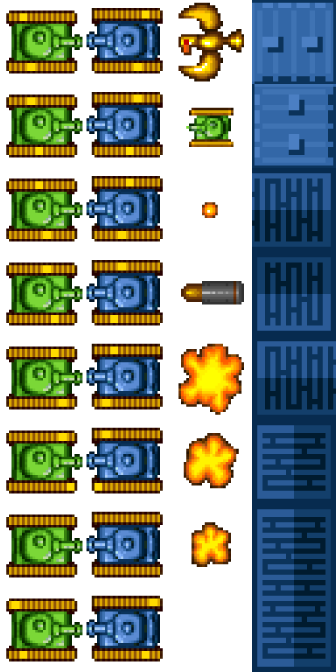
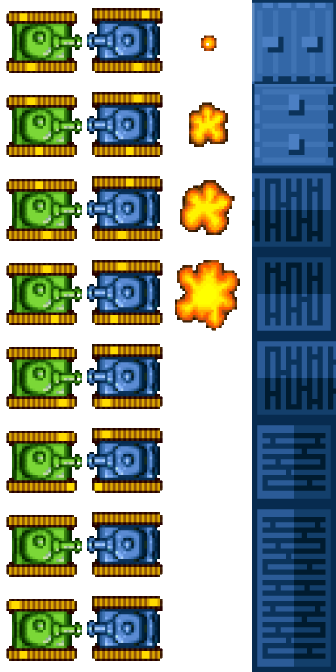
Add tanks, background, sound (First version presented)

diff --git a/.generated/com/heatledger/game/shooter/client/Main.ts b/.generated/com/heatledger/game/shooter/client/Main.ts
@@ -8,6 +8,12 @@ namespace com.heatledger.game.shooter.client {
 
     import ServerConnection = com.heatledger.game.shooter.client.server.connection.ServerConnection;
 
+    import Animation = com.heatledger.game.shooter.client.tools.Animation;
+
+    import Audio = com.heatledger.game.shooter.client.tools.Audio;
+
+    import SingleAnimation = com.heatledger.game.shooter.client.tools.SingleAnimation;
+
     import DrawCanvas = com.heatledger.game.shooter.client.view.DrawCanvas;
 
     import ElementsToDraw = com.heatledger.game.shooter.client.view.ElementsToDraw;
@@ -23,6 +29,12 @@ namespace com.heatledger.game.shooter.client {
 
         redTanks : Tanks = new Tanks(this.elementsToDraw, TankView.Type.red);
 
+        animation : Animation = new Animation("sprite-breakable-block", 10, 168, 84, 4);
+
+        audio : Audio = new Audio("audio_gun_shot");
+
+        singleAnimation : SingleAnimation = new SingleAnimation(this.animation, this.audio);
+
         drawCanvas : DrawCanvas;
 
         public static main(args : string[]) {
@@ -33,6 +45,11 @@ namespace com.heatledger.game.shooter.client {
             };
         }
 
+        public onMouseUp(event : MouseEvent) {
+            event.preventDefault();
+            this.singleAnimation.play(event.clientX - 40, event.clientY - 40);
+        }
+
         public run() {
             this.serverConnection = new ServerConnection();
             this.serverConnection.connect();
@@ -41,6 +58,11 @@ namespace com.heatledger.game.shooter.client {
                 this.drawCanvas = new DrawCanvas(canvas);
                 this.serverConnection.send("get-sell-offers");
                 this.onFrame();
+                canvas.addEventListener("mouseup", (mouseEvent) => {
+                    console.info("Mouse up");
+                    this.onMouseUp(mouseEvent);
+                    return null;
+                }, true);
                 return null;
             });
             this.serverConnection.addMessageListener((message) => {
@@ -59,8 +81,8 @@ namespace com.heatledger.game.shooter.client {
         private refreshOffers(jsonMsg : string, tanks : Tanks) {
             let arr : Array<any> = <Array<any>>JSON.parse(jsonMsg);
             let offers : List<Offer> = <any>(new ArrayList<Offer>((<number>arr.length|0)));
-            for(let index752=0; index752 < arr.length; index752++) {
-                let obj = arr[index752];
+            for(let index155=0; index155 < arr.length; index155++) {
+                let obj = arr[index155];
                 {
                     offers.add(this.revive(obj));
                 }
@@ -75,6 +97,7 @@ namespace com.heatledger.game.shooter.client {
         private animateFrame() {
             this.drawCanvas.getCtx().clearRect(0, 0, this.drawCanvas.getWidth(), this.drawCanvas.getHeight());
             this.elementsToDraw.draw(this.drawCanvas);
+            this.singleAnimation.onFrame(this.drawCanvas);
         }
 
         private onFrame() {

diff --git a/main.html b/main.html
@@ -4,27 +4,6 @@
 <head>
 	<meta charset="utf-8">
 	<meta name="viewport" content="width=device-width, initial-scale=1">
-
-	<script src="j4ts-0.1.0/bundle.js"></script>
-	<script src="j4ts-0.1.0/jquery-3.2.1.min.js"></script>
-	
-	<script src="js/com/heatledger/game/shooter/client/tools/Animation.js"></script>
-
-	<script src="js/com/heatledger/game/shooter/client/server/connection/ServerConnection.js"></script>
-
-	<script src="js/com/heatledger/game/shooter/client/view/DrawCanvas.js"></script>
-	<script src="js/com/heatledger/game/shooter/client/view/ElementView.js"></script>
-	<script src="js/com/heatledger/game/shooter/client/view/ElementsToDraw.js"></script>
-	
-	<script src="js/com/heatledger/game/shooter/client/view/TankView.js"></script>
-	<script src="js/com/heatledger/game/shooter/client/objects/Tanks.js"></script>
-	
-	
-	
-	<script src="js/com/heatledger/game/shooter/client/GameData.js"></script>
-	
-	<script src="js/com/heatledger/game/shooter/client/Offer.js"></script>
- 	<script src="js/com/heatledger/game/shooter/client/Main.js"></script>
  	
  	<!-- 
  	<script src="js/org/dziemian/ln/data/PaymentChannel.js"></script>
@@ -43,11 +22,20 @@
 	
 </head>
 
+<style>
+#canvas { background:url(res/img/background.jpg) }
+</style>
+
 
 <body>
 
-	<img id="sprite-breakable-block" src="res/img/tanks.png"
-		style="display: none;" />
+	<img id="sprite-breakable-block" src="res/img/tanks.png" style="display: none;" />
+	<!-- 
+	<img id="img_background" src="res/img/background.jpg" style="display: none;" />
+		 -->
+		 
+	<audio id="audio_gun_battle" src="res/audio/gun_battle.wav" autoplay loop volume="0.2"></audio>
+	<audio id="audio_gun_shot" src="res/audio/gun_shot.wav"></audio>
 
 
     <div id="content">
@@ -56,7 +44,27 @@
 		</canvas>
 	</div>
 
+	<script src="j4ts-0.1.0/bundle.js"></script>
+	<script src="j4ts-0.1.0/jquery-3.2.1.min.js"></script>
+	
+	<script src="js/com/heatledger/game/shooter/client/tools/Animation.js"></script>
+	<script src="js/com/heatledger/game/shooter/client/tools/Audio.js"></script>
 
+	<script src="js/com/heatledger/game/shooter/client/server/connection/ServerConnection.js"></script>
+
+	<script src="js/com/heatledger/game/shooter/client/view/DrawCanvas.js"></script>
+	<script src="js/com/heatledger/game/shooter/client/view/ElementView.js"></script>
+	<script src="js/com/heatledger/game/shooter/client/view/ElementsToDraw.js"></script>
+	
+	<script src="js/com/heatledger/game/shooter/client/tools/SingleAnimation.js"></script>
+	
+	<script src="js/com/heatledger/game/shooter/client/view/TankView.js"></script>
+	<script src="js/com/heatledger/game/shooter/client/objects/Tanks.js"></script>
+	
+	<script src="js/com/heatledger/game/shooter/client/GameData.js"></script>
+	
+	<script src="js/com/heatledger/game/shooter/client/Offer.js"></script>
+ 	<script src="js/com/heatledger/game/shooter/client/Main.js"></script>
 
 </body>
 </html>

diff --git a/.generated/com/heatledger/game/shooter/client/view/TankView.ts b/.generated/com/heatledger/game/shooter/client/view/TankView.ts
@@ -1,7 +1,5 @@
 /* Generated from Java with JSweet 1.2.0 - http://www.jsweet.org */
 namespace com.heatledger.game.shooter.client.view {
-    import Tanks = com.heatledger.game.shooter.client.objects.Tanks;
-
     import Animation = com.heatledger.game.shooter.client.tools.Animation;
 
     export class TankView implements ElementView {
@@ -17,7 +15,7 @@ namespace com.heatledger.game.shooter.client.view {
 
         private selected : boolean = false;
 
-        animation : Animation = new Animation("sprite-breakable-block", 10, 85, 84);
+        animation : Animation = new Animation("sprite-breakable-block", 10, 85, 84, 5);
 
         public setCooridnates(x : number, y : number) {
             this.x = x;
@@ -32,9 +30,9 @@ namespace com.heatledger.game.shooter.client.view {
             this.x = x;
             this.y = y;
             if(type === TankView.Type.green) {
-                this.animation = new Animation("sprite-breakable-block", 10, 0, 84);
+                this.animation = new Animation("sprite-breakable-block", 10, 0, 84, 5);
             } else if(type === TankView.Type.red) {
-                this.animation = new Animation("sprite-breakable-block", 10, 85, 84);
+                this.animation = new Animation("sprite-breakable-block", 10, 85, 84, 5);
             } else {
                 throw new Error("Unknown tank type: " + type);
             }

diff --git a/.generated/com/heatledger/game/shooter/client/view/ElementsToDraw.ts b/.generated/com/heatledger/game/shooter/client/view/ElementsToDraw.ts
@@ -14,11 +14,11 @@ namespace com.heatledger.game.shooter.client.view {
         }
 
         public draw(drawCanvas : DrawCanvas) {
-            for(let index756=this.elemntGroups.values().iterator();index756.hasNext();) {
-                let elements = index756.next();
+            for(let index159=this.elemntGroups.values().iterator();index159.hasNext();) {
+                let elements = index159.next();
                 {
-                    for(let index757=elements.iterator();index757.hasNext();) {
-                        let el = index757.next();
+                    for(let index160=elements.iterator();index160.hasNext();) {
+                        let el = index160.next();
                         {
                             el.draw(drawCanvas);
                         }

diff --git a/.generated/com/heatledger/game/shooter/client/server/connection/ServerConnection.ts b/.generated/com/heatledger/game/shooter/client/server/connection/ServerConnection.ts
@@ -11,7 +11,7 @@ namespace com.heatledger.game.shooter.client.server.connection {
 
         public connect() {
             console.info("Socket connecting... to remote ");
-            this.socket = new WebSocket("ws://192.168.0.20/shooter/websocketendpoint");
+            this.socket = new WebSocket("ws://89.65.185.54/shooter/websocketendpoint");
         }
 
         public onConnected(listener : (p1: Event) => any) {

diff --git a/src/main/java/com/heatledger/game/shooter/client/Main.java b/src/main/java/com/heatledger/game/shooter/client/Main.java
@@ -1,20 +1,26 @@
 package com.heatledger.game.shooter.client;
 
 import static jsweet.dom.Globals.alert;
+import static jsweet.dom.Globals.console;
 import static jsweet.dom.Globals.document;
 import static jsweet.dom.Globals.window;
+import static jsweet.util.StringTypes.mouseup;
 
 import java.util.ArrayList;
 import java.util.List;
 
 import com.heatledger.game.shooter.client.objects.Tanks;
 import com.heatledger.game.shooter.client.server.connection.ServerConnection;
+import com.heatledger.game.shooter.client.tools.Animation;
+import com.heatledger.game.shooter.client.tools.Audio;
+import com.heatledger.game.shooter.client.tools.SingleAnimation;
 import com.heatledger.game.shooter.client.view.DrawCanvas;
 import com.heatledger.game.shooter.client.view.ElementsToDraw;
 import com.heatledger.game.shooter.client.view.TankView;
 
 import jsweet.dom.HTMLCanvasElement;
 import jsweet.dom.Image;
+import jsweet.dom.MouseEvent;
 import jsweet.lang.Array;
 import jsweet.lang.JSON;
 
@@ -29,6 +35,12 @@ public class Main {
 	Tanks greenTanks = new Tanks(elementsToDraw, TankView.Type.green); // tanks represents bids
 	Tanks redTanks = new Tanks(elementsToDraw, TankView.Type.red); // tanks represents asks
 	
+	Animation animation = new Animation("sprite-breakable-block", 10, 168, 84, 4);
+	Audio audio = new Audio("audio_gun_shot");
+	SingleAnimation singleAnimation = new SingleAnimation(animation, audio);
+	
+//	Audio backgroundAudio = new Audio("audio_gun_battle");
+	
 	DrawCanvas drawCanvas;
 	
 	public static void main(String[] args) {
@@ -37,6 +49,15 @@ public class Main {
 			main.run();
 			return main;
 		};
+	}
+	
+	public void onMouseUp(MouseEvent event) {
+		event.preventDefault();
+//		event.clientX
+		singleAnimation.play(event.clientX-40, event.clientY-40);
+//		
+//		socketOpen();
+//		console.info("Looking for node. Coordinates are: " + event.layerX + " and " + event.layerY);
 	}
 	
 	public void run() {
@@ -51,8 +72,14 @@ public class Main {
 			
 			serverConnection.send("get-sell-offers");
 //			serverConnection.send("get-buy-offers");
-					
+
 			onFrame();
+			
+			canvas.addEventListener(mouseup, mouseEvent -> {
+				console.info("Mouse up");
+				onMouseUp(mouseEvent);
+				return null;
+			}, true);
 			
 			return null;
 		});
@@ -105,6 +132,7 @@ public class Main {
 		
 		drawCanvas.getCtx().clearRect(0, 0, drawCanvas.getWidth(), drawCanvas.getHeight());
 		elementsToDraw.draw(drawCanvas);
+		singleAnimation.onFrame(drawCanvas);
 
 	}
 
@@ -112,6 +140,7 @@ public class Main {
 //		serverConnection.send("get-buy-offers");
 //		serverConnection.send("get-sell-offers");
 //		positionAdapter.adaptPositions(elementsToDraw);
+		
 		animateFrame();
 		window.requestAnimationFrame((time) -> {
 			this.onFrame();

diff --git a/src/main/java/com/heatledger/game/shooter/client/view/TankView.java b/src/main/java/com/heatledger/game/shooter/client/view/TankView.java
@@ -1,6 +1,5 @@
 package com.heatledger.game.shooter.client.view;
 
-import com.heatledger.game.shooter.client.objects.Tanks;
 import com.heatledger.game.shooter.client.tools.Animation;
 
 public class TankView implements ElementView {
@@ -14,7 +13,7 @@ public class TankView implements ElementView {
 	private double y;
 	private boolean selected = false;
 	
-	Animation animation = new Animation("sprite-breakable-block", 10, 85, 84);
+	Animation animation = new Animation("sprite-breakable-block", 10, 85, 84, 5);
 	
 	public void setCooridnates(double x, double y) {
 		this.x = x;
@@ -31,9 +30,9 @@ public class TankView implements ElementView {
 //		this.node = node;
 //		this.node.setView(this);
 		if(type == Type.green) {
-			animation = new Animation("sprite-breakable-block", 10, 0, 84);
+			animation = new Animation("sprite-breakable-block", 10, 0, 84, 5);
 		} else if(type == Type.red) {
-			animation = new Animation("sprite-breakable-block", 10, 85, 84);
+			animation = new Animation("sprite-breakable-block", 10, 85, 84, 5);
 		} else {
 			throw new RuntimeException("Unknown tank type: " + type);
 		}

diff --git a/src/main/java/com/heatledger/game/shooter/client/tools/LoopAnimation.java b/src/main/java/com/heatledger/game/shooter/client/tools/LoopAnimation.java
@@ -5,9 +5,10 @@ import static jsweet.dom.Globals.document;
 import com.heatledger.game.shooter.client.view.DrawCanvas;
 
 import jsweet.dom.CanvasRenderingContext2D;
+import jsweet.dom.HTMLAudioElement;
 import jsweet.dom.HTMLImageElement;
 
-public class Animation {
+public class LoopAnimation {
 	
 	private final HTMLImageElement sprite;
 	
@@ -32,7 +33,7 @@ public class Animation {
 		}
 	}
 	
-	public Animation(final String spriteId, final int speed, int imgPos, int width) {
+	public LoopAnimation(final String spriteId, final int speed, int imgPos, int width) {
 		sprite = (HTMLImageElement) document.getElementById(spriteId);
 		this.speed = speed;
 		this.imgPos = imgPos;

diff --git a/src/main/java/com/heatledger/game/shooter/client/server/connection/ServerConnection.java b/src/main/java/com/heatledger/game/shooter/client/server/connection/ServerConnection.java
@@ -18,7 +18,7 @@ public class ServerConnection {
 	
 	public void connect() {
 		console.info("Socket connecting... to remote ");
-		socket = new WebSocket("ws://192.168.0.18/shooter/websocketendpoint");
+		socket = new WebSocket("ws://89.65.185.54/shooter/websocketendpoint");
 		
 //		socket.addEventListener(jsweet.util.StringTypes.open, event -> {
 //			connected = true;
